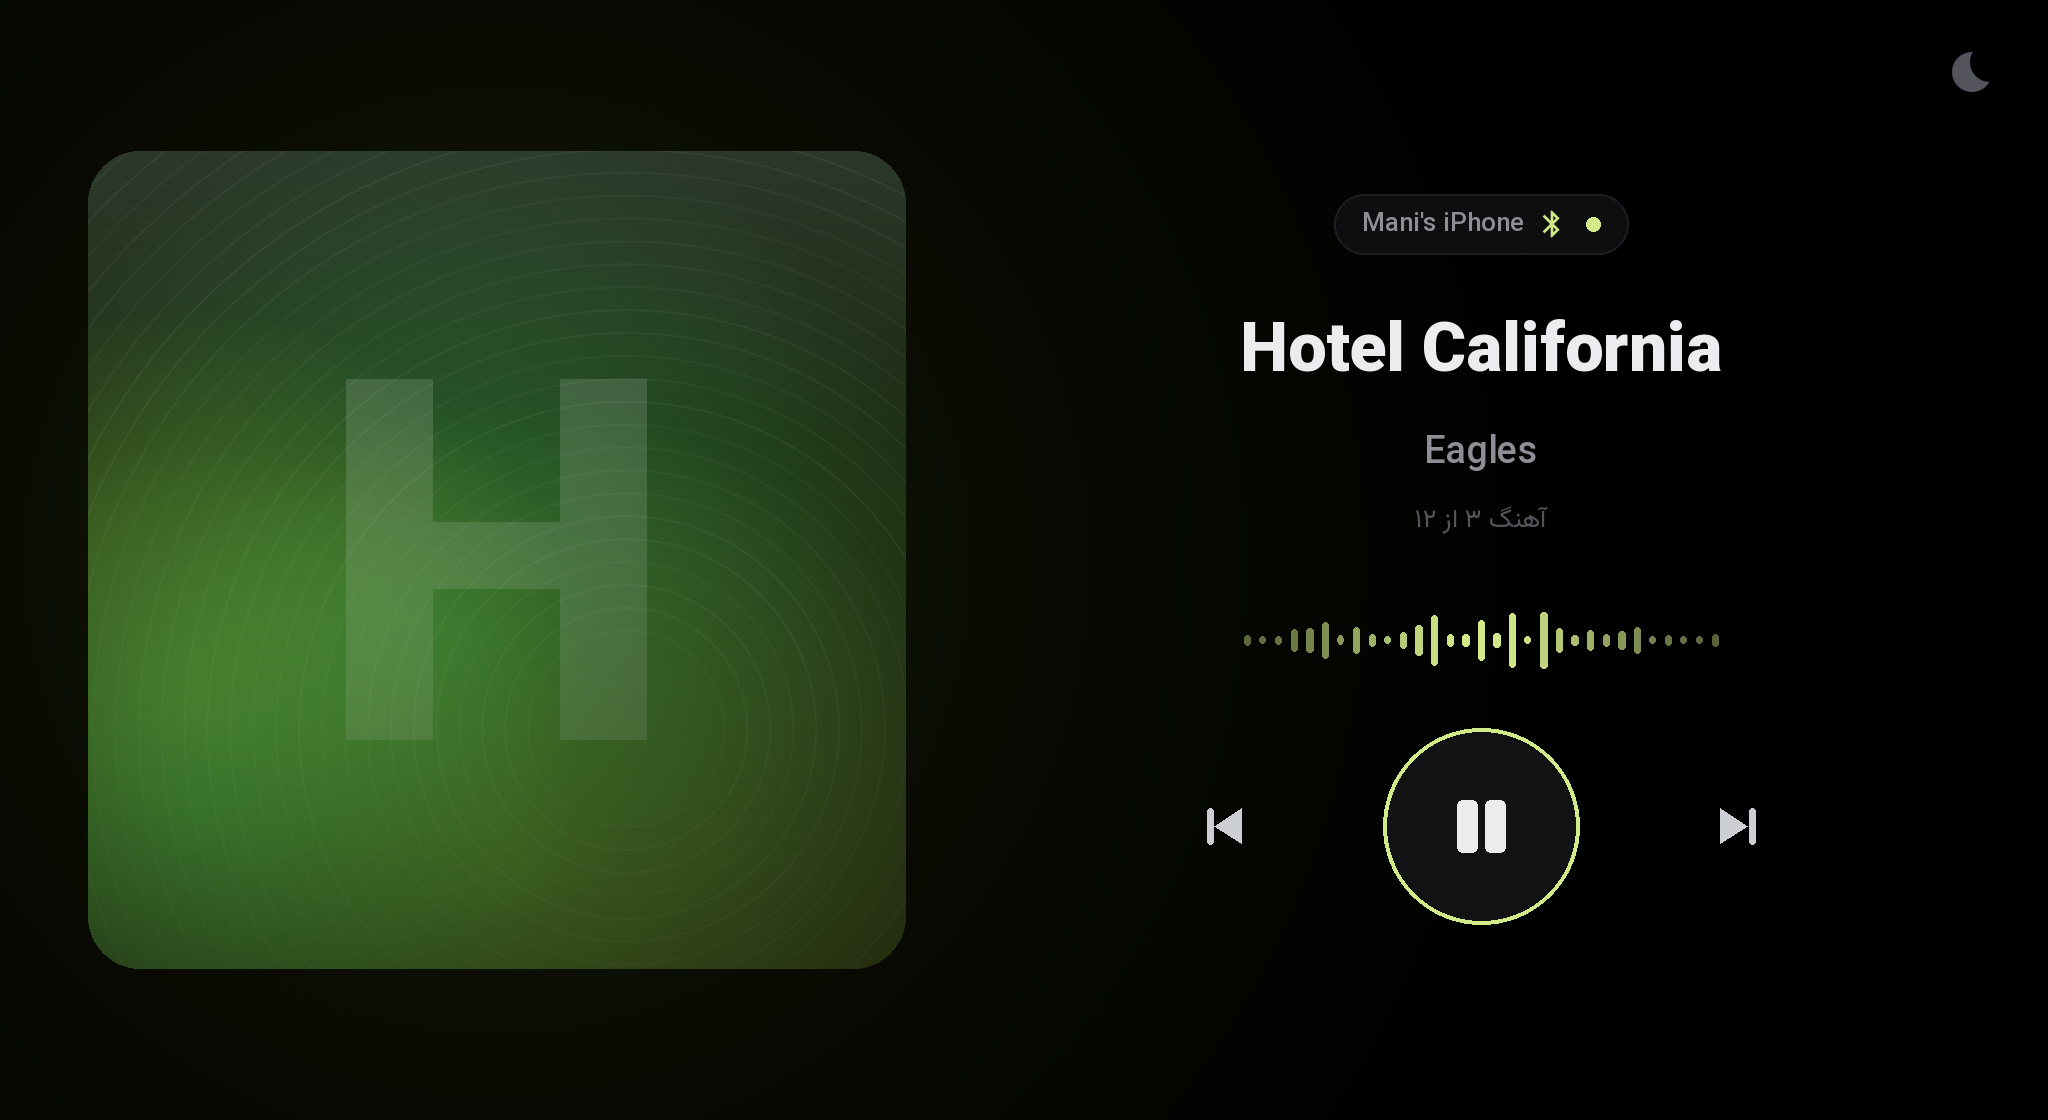
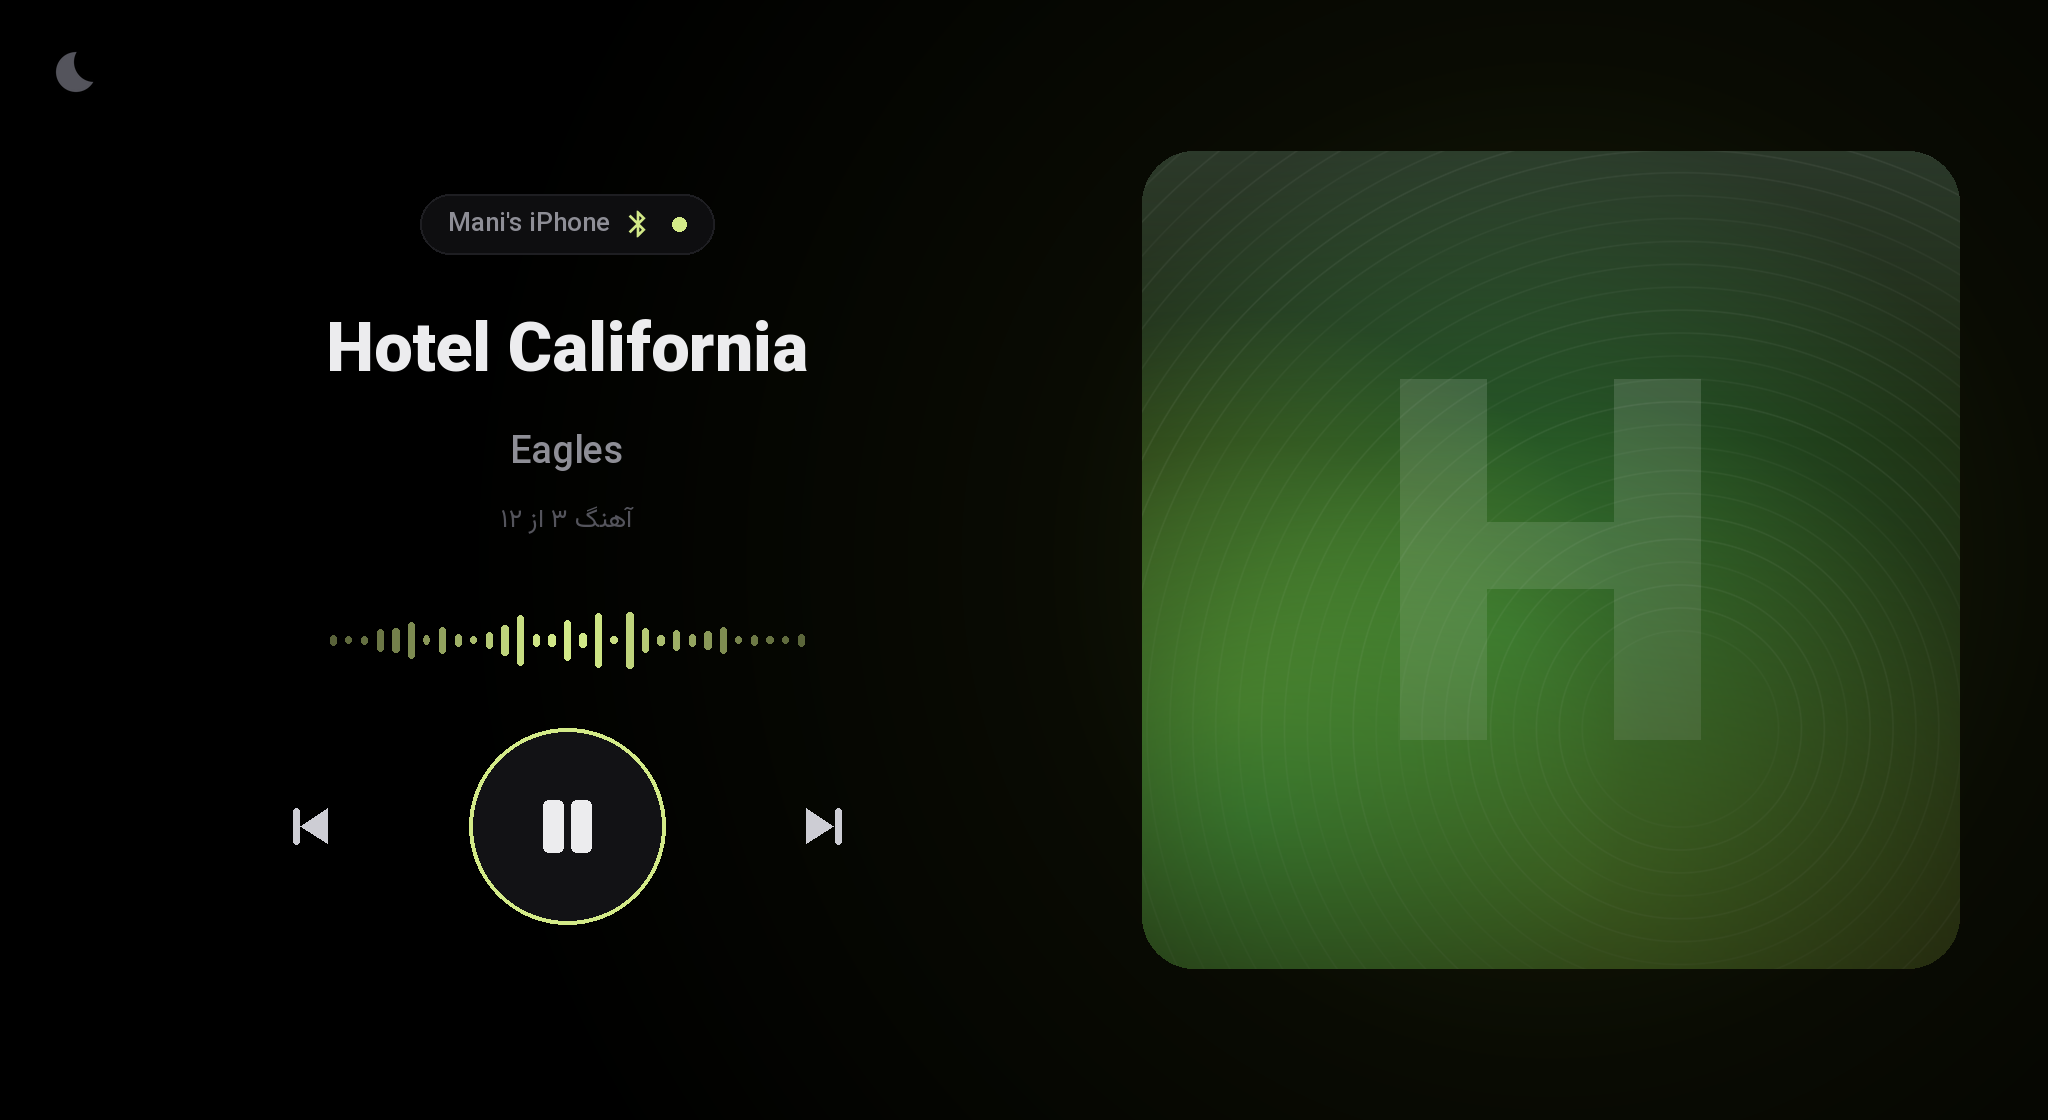
1.2.0: cover on the right, controls on the driver's side
Claude-Session: https://claude.ai/code/session_011azxjQX34dZm2bbULXSmRn

diff --git a/app/src/main/java/ir/maniimani/geekplay/MainActivity.java b/app/src/main/java/ir/maniimani/geekplay/MainActivity.java
@@ -373,9 +373,9 @@ public class MainActivity extends Activity {
         btnMoon.setBackground(new RippleDrawable(ColorStateList.valueOf(C_RIPPLE), null, new ShapeDrawable(new OvalShape())));
         btnMoon.setContentDescription("حالت شب");
         btnMoon.setOnClickListener(v -> setDim(!dim, true));
-        FrameLayout.LayoutParams mlp = new FrameLayout.LayoutParams(dp(52), dp(52), Gravity.TOP | Gravity.RIGHT);
+        FrameLayout.LayoutParams mlp = new FrameLayout.LayoutParams(dp(52), dp(52), Gravity.TOP | Gravity.LEFT);
         mlp.topMargin = dp(10);
-        mlp.rightMargin = dp(12);
+        mlp.leftMargin = dp(12);
         root.addView(btnMoon, mlp);
 
         // dim overlay — not clickable, so touches pass through
@@ -402,6 +402,16 @@ public class MainActivity extends Activity {
         int pad = landscape ? dp(44) : dp(28);
         content.setPadding(pad, pad, pad, pad);
         content.setOrientation(landscape ? LinearLayout.HORIZONTAL : LinearLayout.VERTICAL);
+        // Landscape: controls on the left (driver's side in a left-hand-drive car), cover on the right.
+        // Portrait: cover on top.
+        content.removeAllViews();
+        if (landscape) {
+            content.addView(info);
+            content.addView(art);
+        } else {
+            content.addView(art);
+            content.addView(info);
+        }
 
         int artSize;
         if (landscape) {
@@ -416,7 +426,7 @@ public class MainActivity extends Activity {
         LinearLayout.LayoutParams ilp;
         if (landscape) {
             ilp = new LinearLayout.LayoutParams(0, ViewGroup.LayoutParams.WRAP_CONTENT, 1f);
-            ilp.leftMargin = dp(48);
+            ilp.rightMargin = dp(48);
         } else {
             ilp = new LinearLayout.LayoutParams(ViewGroup.LayoutParams.MATCH_PARENT, ViewGroup.LayoutParams.WRAP_CONTENT);
             ilp.topMargin = dp(28);
@@ -427,7 +437,7 @@ public class MainActivity extends Activity {
         // size (text, gaps, buttons) down together if it doesn't fit. Buttons stay
         // perfectly square, so the play ring is always a true circle.
         applyScale(1f);
-        int infoW = landscape ? (w - 2 * pad - artSize - ilp.leftMargin) : (w - 2 * pad);
+        int infoW = landscape ? (w - 2 * pad - artSize - ilp.rightMargin) : (w - 2 * pad);
         int availH = landscape ? (h - 2 * pad) : (h - 2 * pad - artSize - ilp.topMargin);
         info.measure(View.MeasureSpec.makeMeasureSpec(Math.max(1, infoW), View.MeasureSpec.EXACTLY),
                 View.MeasureSpec.makeMeasureSpec(0, View.MeasureSpec.UNSPECIFIED));

diff --git a/CHANGELOG.md b/CHANGELOG.md
@@ -1,5 +1,9 @@
 # Changelog
 
+## 1.2.0
+- کاور رفت سمت راست و دکمهها اومدن سمت راننده، مثل GeekMusic (Cover moved to the right; controls on the driver's side, matching GeekMusic)
+- دکمهی حالت شب رفت گوشهی بالا چپ (Night button moved to the top-left corner)
+
 ## 1.1.0
 - موج زندهی تزئینی به جای نوار زمان (Live decorative waveform replaces the timeline)
 - دکمهی پخش همیشه یه دایرهی کامله (Play button is always a perfect circle)
